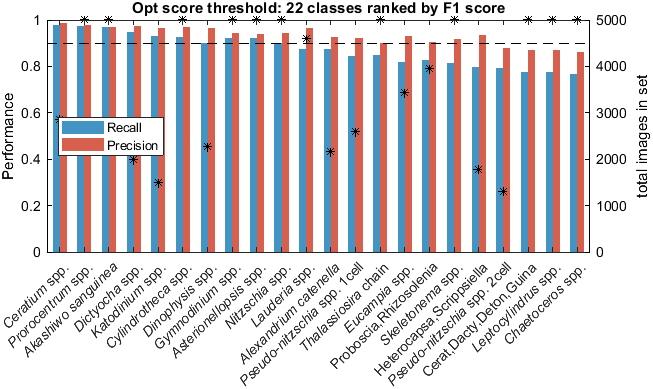
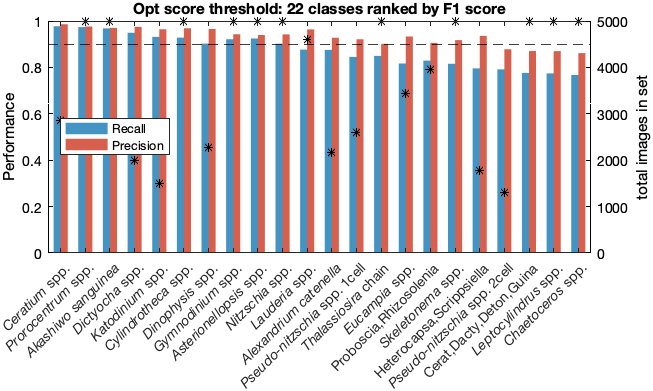
new classnum conversion

Changed region(s): [[0.0, 0.0, 1.0, 0.9871], [0.49, 0.9254, 0.5207, 0.9563]]

diff --git a/IFCB-Tools/compare_classifiers.m b/IFCB-Tools/compare_classifiers.m
@@ -1,0 +1,91 @@
+clear;
+Mac=1;
+nameL1='CCS_NOAA-OSU_v4';
+nameR1='CCS_v6';
+
+if Mac
+    basepath = '~/Documents/MATLAB/bloom-baby-bloom/';    
+    filepath = [basepath 'IFCB-Data/Shimada/class/'];
+    classidx=[basepath 'IFCB-Tools/convert_index_class/class_indices.mat'];
+    figpath = [filepath 'Figs/'];
+else
+    basepath='C:\Users\ifcbuser\Documents\GitHub\bloom-baby-bloom\';
+    filepath = [basepath 'IFCB-Data\Shimada\class\'];
+    classidx=[basepath 'IFCB-Tools\convert_index_class\class_indices.mat'];    
+    figpath = [filepath 'Figs\'];    
+end
+addpath(genpath(basepath));
+
+load([filepath 'performance_classifier_' nameL1],'all'); L1i=flipud(all); 
+load([filepath 'performance_classifier_' nameR1],'all'); R1=flipud(all);
+maxn=round(max([R1.total]),-2);
+[~,class]=get_class_ind( R1.class,'all',classidx);
+
+%% find and fill gaps, if they exist
+L1=R1;
+[~,ib]=ismember(R1.class,L1i.class);
+for i=1:length(ib)
+    if ib(i)>0
+        L1.total(i)= L1i.total(ib(i));
+        L1.R(i)= L1i.R(ib(i));
+        L1.P(i)= L1i.P(ib(i));        
+        L1.F1(i)= L1i.F1(ib(i));                
+    else
+        L1.total(i)=0;
+        L1.R(i)=NaN;
+        L1.P(i)=NaN;        
+        L1.F1(i)=NaN;                
+    end
+end
+
+
+%%
+figure('Units','inches','Position',[1 1 5 6],'PaperPositionMode','auto');
+
+tiledlayout(1,1)
+blankY=ones(size(R1.F1));
+blankX=ones(1,3);
+C1 = [[L1.F1,R1.F1,blankY];blankX];
+pcolor(nexttile,C1)
+
+set(gca,'ylim',[1 (length(class)+1)],'ytick',1.5:1:length(class)+.5,...
+    'yticklabel',class,'xlim',[1 3],'xtick',1.5:1:3.5,'tickdir','out',...
+    'xticklabel',{'NOAA-OSU','NOAA-OSU-UCSC'},'fontsize',10,'xaxislocation','top');
+    xtickangle(30);
+
+    colormap(parula); caxis([0.8 1]);
+    h=colorbar('north'); %h.Label.String = label; h.Label.FontSize = 12;               
+    hp=get(h,'pos'); 
+    hp=[.4*hp(1) 1.08*hp(2) .7*hp(3) 0.7*hp(4)]; % [left, bottom, width, height].
+    set(h,'pos',hp,'xaxisloc','top','fontsize',9); 
+    h.Label.String = 'F1 score';    
+    h.Label.FontSize = 11;  
+
+    set(gcf,'color','w');
+    exportgraphics(gcf,[figpath 'pcolor_CCS_classifier_compare.png'],'Resolution',100)    
+hold off
+
+%% plot comparison or Regional vs Local classifier
+figure('Units','inches','Position',[1 1 7 4],'PaperPositionMode','auto');
+
+yyaxis left;
+b=bar([L1.F1 R1.F1],'Barwidth',1,'linestyle','none'); hold on
+col=flipud(brewermap(2,'RdBu')); 
+for i=1:length(b)
+    set(b(i),'FaceColor',col(i,:));
+end  
+hold on;
+set(gca,'xlim',[0.5 (length(class)+.5)], 'xtick', 1:length(class), 'ylim',[0 1],...
+    'xticklabel', class,'ycolor','k','tickdir','out');
+ylabel('F1 score','color','k');
+
+yyaxis right;
+plot(.8:1:length(class),L1.total,'k*',1.2:1:length(class)+.2,R1.total,'ks'); hold on
+ylabel('total images in set');
+set(gca,'ycolor','k', 'xtick', 1:length(class),'ylim',[0 maxn], 'xticklabel', class); hold on
+legend('NOAA-OSU', 'NOAA-OSU-UCSC','Location','NorthOutside')
+xtickangle(45);
+%%
+set(gcf,'color','w');
+print(gcf,'-dpng','-r100',[figpath 'classifier_compare' nameL '.png']);
+hold off

diff --git a/IFCB-Tools/convert_index_class/convert_classnum_UCSC2NWFSC.m b/IFCB-Tools/convert_index_class/convert_classnum_UCSC2NWFSC.m
@@ -13,9 +13,13 @@ function [ classnum ] = convert_classnum_UCSC2NWFSC( Z )
 % UCSC_num=[	33	71	73	34	72	49	85	70	65	2	63	3	54	35	58	24	31	36	86	4	94	64	82	67	37	5	62	80	26	74	77	25	55	38	95	52	59	6	76	7	8	53	9	27	39	40	75	10	11	60	12	13	66	28	14	90	84	61	68	15	41	16	51	17	93	32	83	42	78	18	81	43	44	92	45	19	46	47	30	50	20	56	29	89	21	22	91	87	88	48	23	69	1	79	96	57];
 % NWFSC_num=[	4	5	5	5	5	1	1	1	1	13	14	16	1	18	1	1	1	22	57	23	1	1	1	28	29	30	32	1	1	1	1	1	1	39	40	1	43	45	1	47	48	1	1	1	55	56	1	58	59	25	65	66	67	1	69	72	1	1	74	1	77	78	1	80	1	81	1	82	1	85	1	87	89	90	92	93	1	1	1	1	99	1	1	102	103	1	106	107	108	109	110	1	1	111	1	1];
 
-%grouped Scrip/Heterocapsa and Rhiz/Prob 09Feb2023
+% %grouped Scrip/Heterocapsa and Rhiz/Prob 09Feb2023
+% UCSC_num=	[33	71	73	34	72	49	85	70	65	2	63	3	54	35	58	24	31	36	86	4	94	64	82	67	37	5	62	80	26	74	77	25	55	38	95	52	59	6	76	7	8	53	9	27	39	40	75	10	11	60	12	13	66	28	14	90	84	61	68	15	41	16	51	17	93	32	83	42	78	18	81	43	44	92	45	19	46	47	30	50	20	56	29	89	21	22	91	87	88	48	23	69	1	79	96	57];
+% NWFSC_num=	[4	5	5	5	5	1	1	1	1	13	14	16	1	18	1	1	1	22	57	23	1	1	1	28	29	30	32	1	1	1	1	1	1	39	40	1	43	45	1	47	48	1	1	1	55	56	1	58	59	25	65	66	67	1	69	72	1	1	74	1	77	78	1	80	1	81	1	82	1	85	1	87	89	90	92	93	1	1	96	97	99	1	1	102	103	1	106	107	108	109	110	1	1	111	1	1];
+
+%only select UCSC classes: Gymnodinium, Heterocapsa, Scrippsiella, Eucampia, Prorocentrum, Margalefidinium
 UCSC_num=	[33	71	73	34	72	49	85	70	65	2	63	3	54	35	58	24	31	36	86	4	94	64	82	67	37	5	62	80	26	74	77	25	55	38	95	52	59	6	76	7	8	53	9	27	39	40	75	10	11	60	12	13	66	28	14	90	84	61	68	15	41	16	51	17	93	32	83	42	78	18	81	43	44	92	45	19	46	47	30	50	20	56	29	89	21	22	91	87	88	48	23	69	1	79	96	57];
-NWFSC_num=	[4	5	5	5	5	1	1	1	1	13	14	16	1	18	1	1	1	22	57	23	1	1	1	28	29	30	32	1	1	1	1	1	1	39	40	1	43	45	1	47	48	1	1	1	55	56	1	58	59	25	65	66	67	1	69	72	1	1	74	1	77	78	1	80	1	81	1	82	1	85	1	87	89	90	92	93	1	1	96	97	99	1	1	102	103	1	106	107	108	109	110	1	1	111	1	1];
+NWFSC_num=	[1	1	1	1	1	1	1	1	1	1	1	1	1	1	1	1	1	1	1	1	1	1	1	1	29	1	1	1	1	1	1	1	1	1	1	1	1	1	1	1	48	1	1	1	55	1	1	1	1	1	1	1	1	1	1	1	1	1	1	1	1	1	1	1	1	1	1	1	1	1	1	1	89	1	1	1	1	1	1	97	1	1	1	1	1	1	1	1	1	1	1	1	1	1	1	1];
 
 classnum=changem(Z,NWFSC_num,UCSC_num);
 

diff --git a/IFCB-Tools/plot_classifier_performance.m b/IFCB-Tools/plot_classifier_performance.m
@@ -1,12 +1,6 @@
-<<<<<<< Updated upstream
 clear;
-Mac=0;
-name='CCS_NOAA-OSU_v4';
-=======
-clear; close all;
 Mac=1;
-name='CCS_v3';
->>>>>>> Stashed changes
+name='CCS_NOAA-OSU_v4';
 
 if Mac
     basepath = '~/Documents/MATLAB/bloom-baby-bloom/';    
